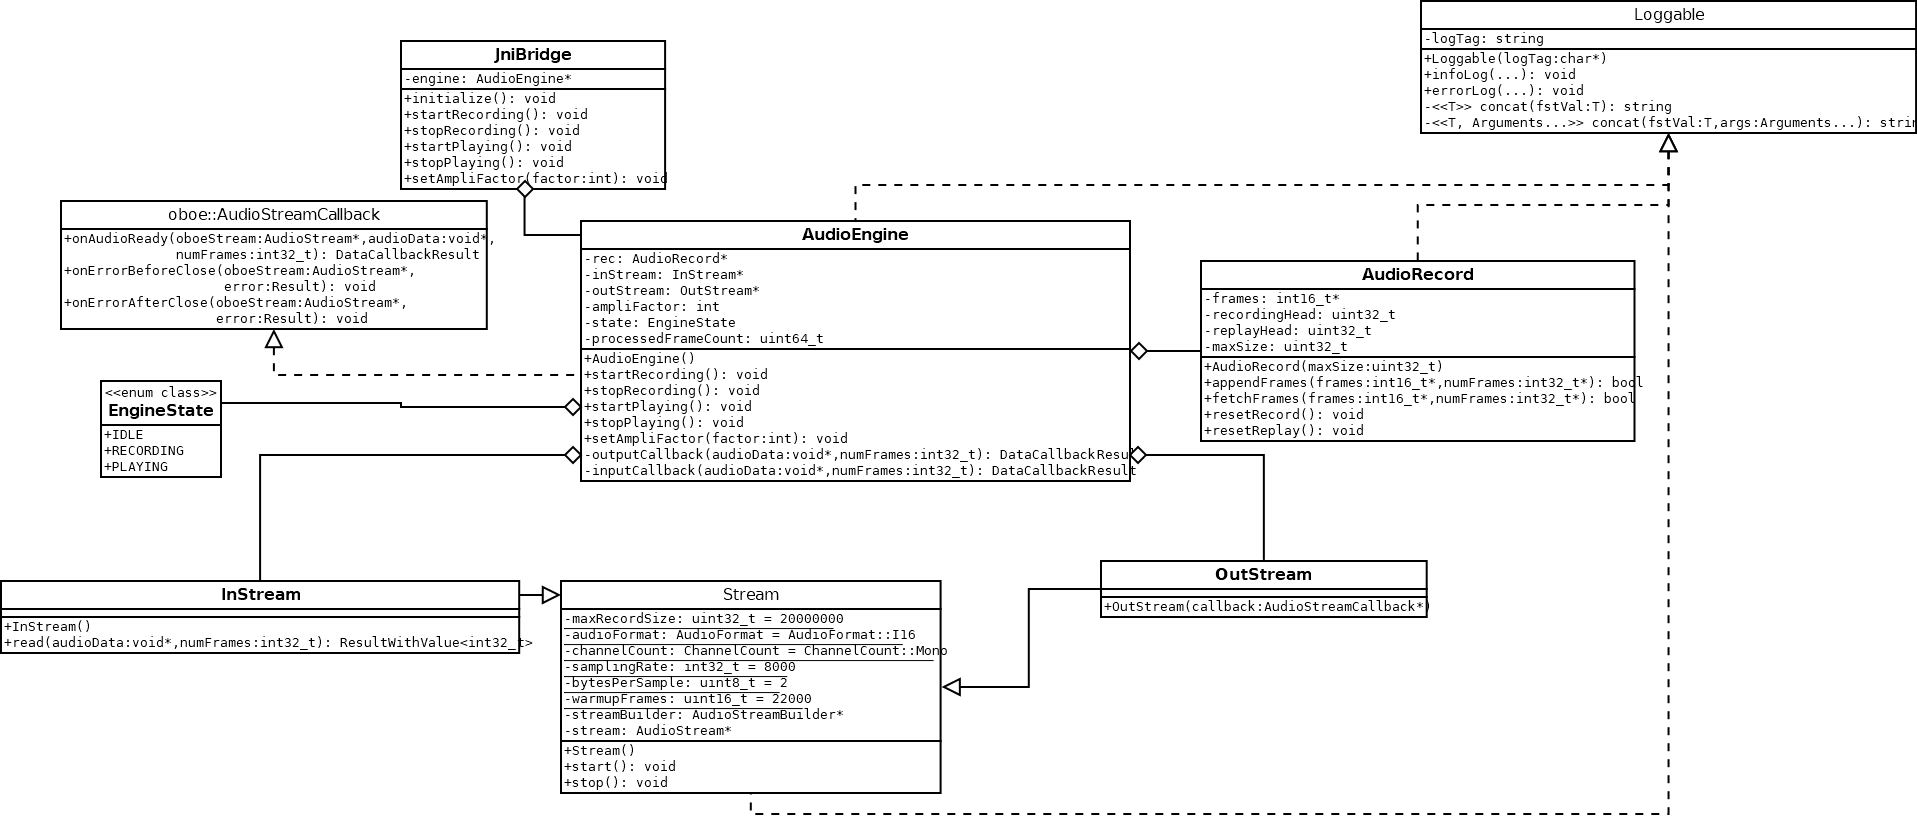
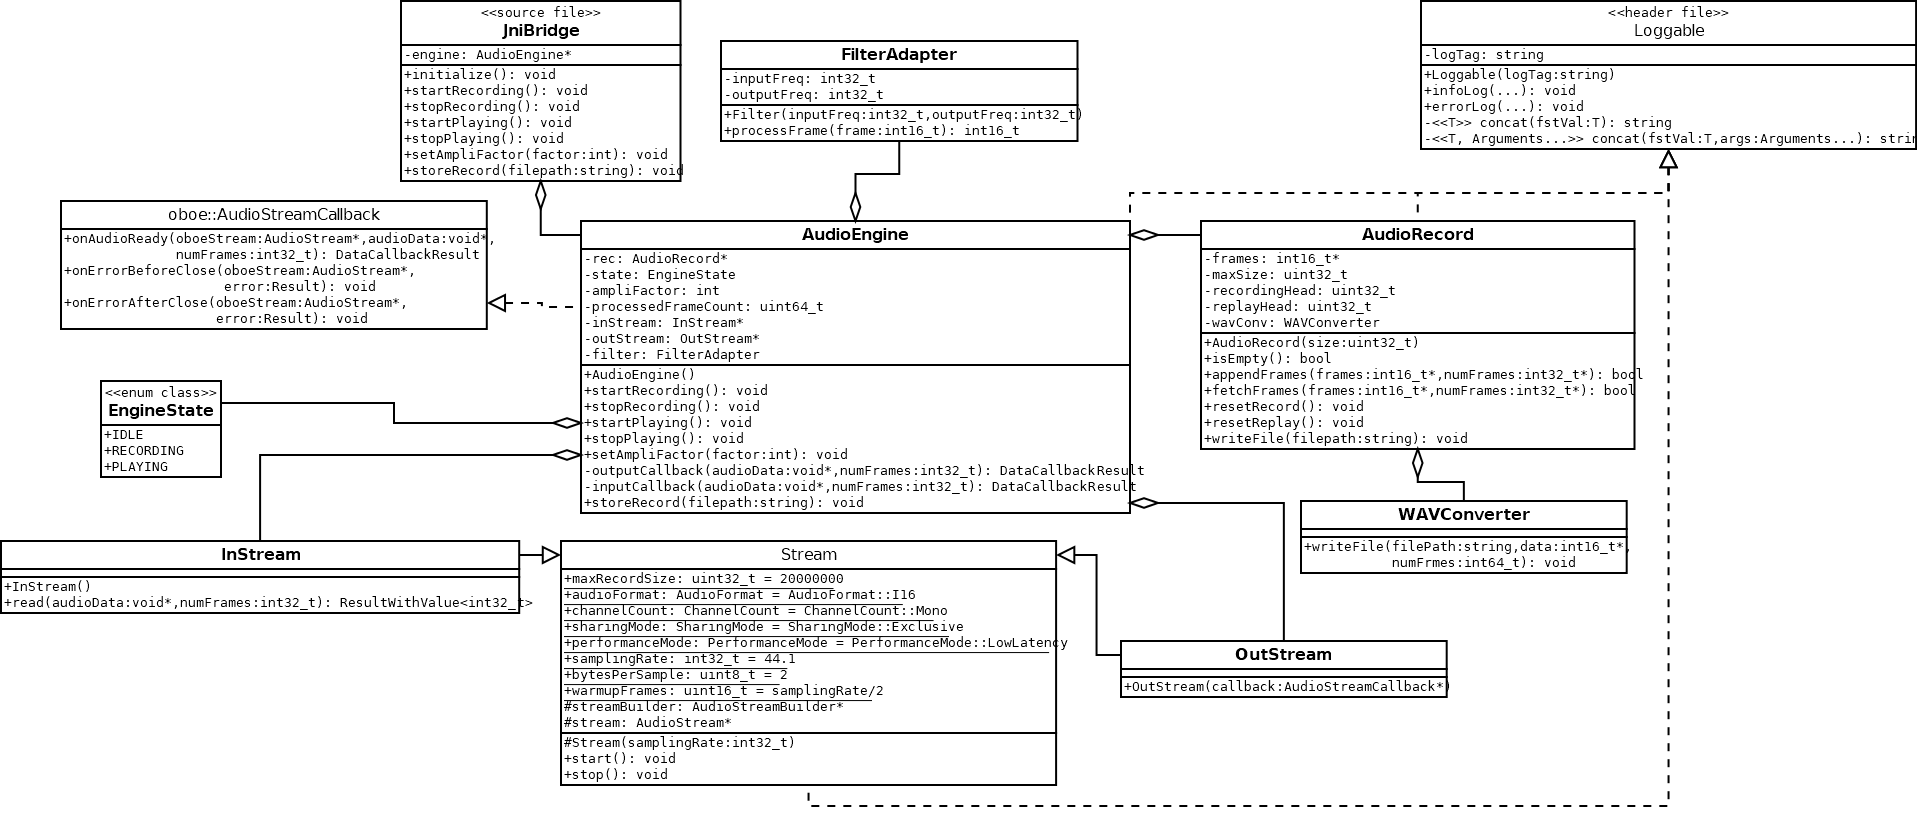
extended UML doc by WAVConverter

diff --git a/vertical_prototypes/OboeRecord/app/src/main/java/com/sanascope/oboerecord/MainActivity.java b/vertical_prototypes/OboeRecord/app/src/main/java/com/sanascope/oboerecord/MainActivity.java
@@ -2,6 +2,7 @@ package com.sanascope.oboerecord;
 
 import android.Manifest;
 import android.content.pm.PackageManager;
+import android.media.MediaScannerConnection;
 import android.os.Environment;
 import android.support.annotation.NonNull;
 import android.support.design.widget.FloatingActionButton;
@@ -80,6 +81,7 @@ public class MainActivity extends AppCompatActivity {
         } else {
             Log.e(logTag, "Tapped play at an illegal state!");
         }
+        writeFile();
     }
 
     private void toggleRecord() {
@@ -98,9 +100,14 @@ public class MainActivity extends AppCompatActivity {
 
     private void writeFile() {
         String filePath;
-        //filePath = getFilesDir().getAbsolutePath(); // internal
-        filePath = Environment.getExternalStorageDirectory().getAbsolutePath(); // external
+
+        // internal
+        //filePath = getFilesDir().getAbsolutePath();
+
+        // external
+        filePath = Environment.getExternalStorageDirectory().getAbsolutePath() + "/testfile.txt";
         storeRecord(filePath);
+        MediaScannerConnection.scanFile(this, new String[] {filePath}, null, null);
     }
 
     /**

diff --git a/vertical_prototypes/OboeRecord/app/src/main/cpp/AudioRecord.cpp b/vertical_prototypes/OboeRecord/app/src/main/cpp/AudioRecord.cpp
@@ -67,7 +67,7 @@ bool AudioRecord::fetchFrames(int16_t* frames, int32_t numFrames) {
 
 void AudioRecord::writeFile(std::string filepath) const {
     // create and open file stream
-    std::ofstream outfile(filepath + "/testfile.txt"); // opens by default an output stream
+    std::ofstream outfile(filepath); // opens by default an output stream
     if (outfile.is_open()) {
         infoLog("Filestream open");
     } else {
